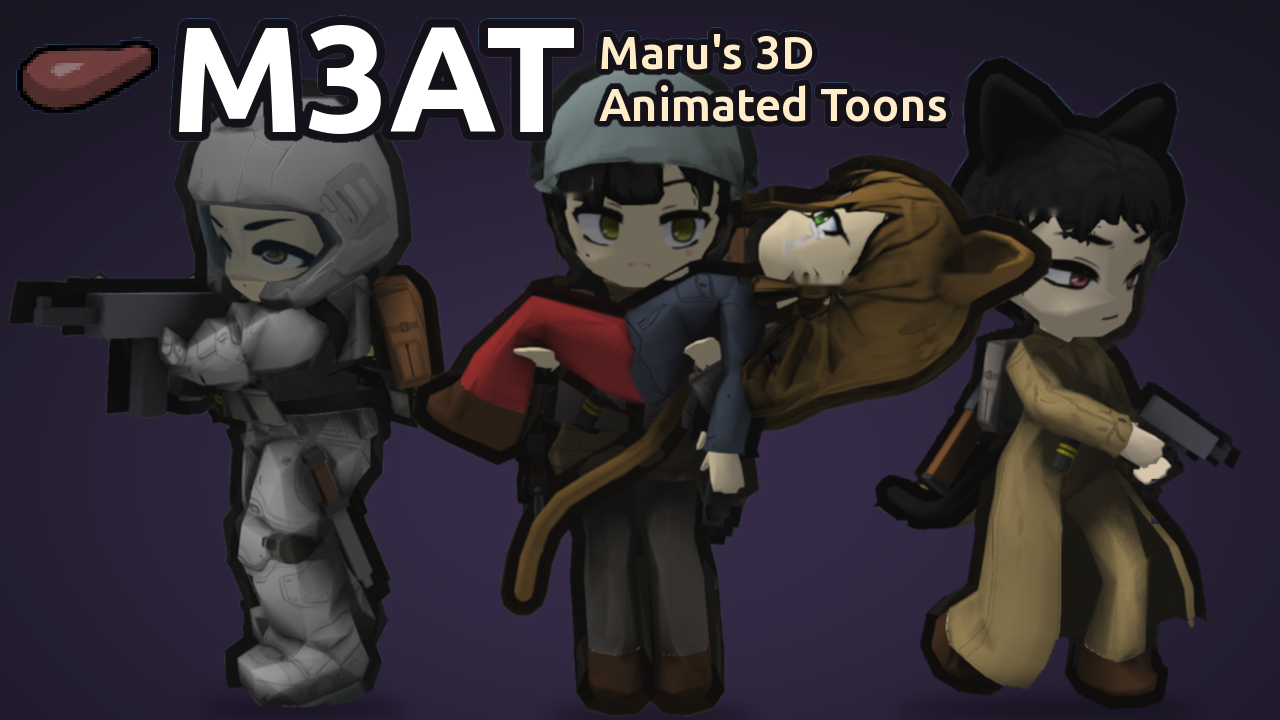
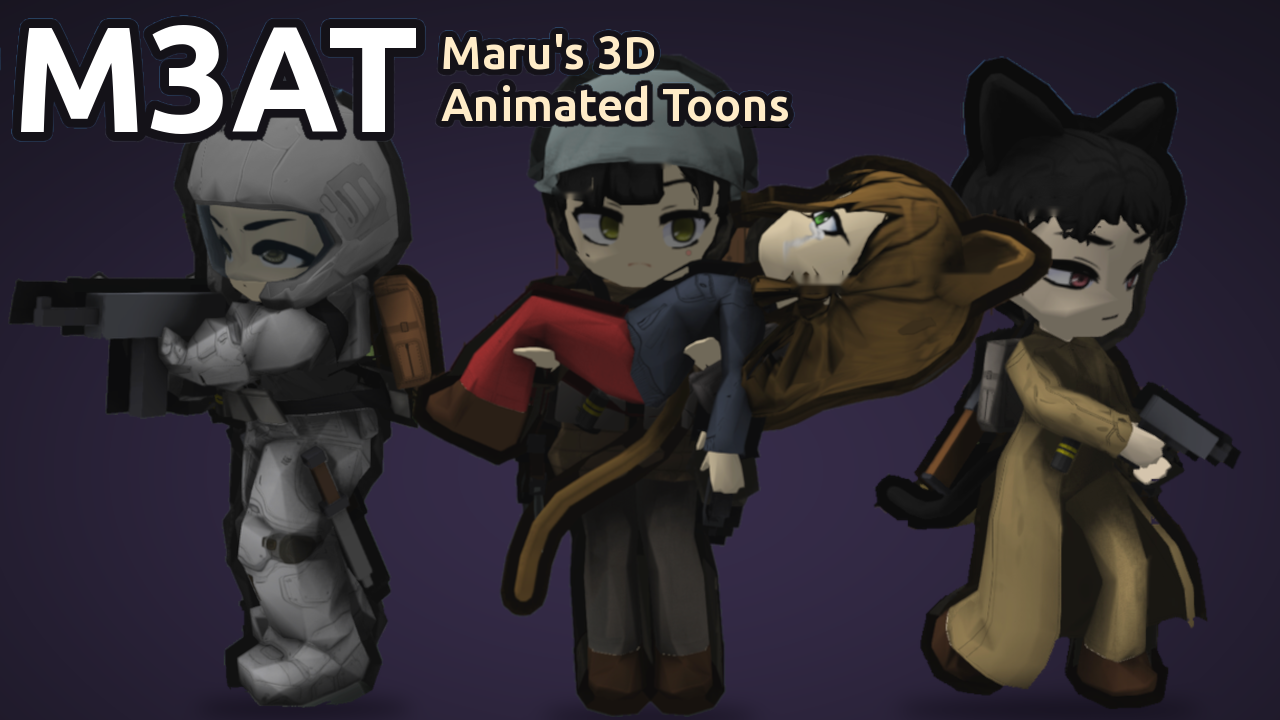
Eating at a table: drawn scooted forward on the chair so the hands reach the meal
Sat in the middle of the chair's cell, eat_sit's hands worked about 0.3 cells short
of the meal at the table's near edge (autotest eat). Drawn EatCloser (0.2 cells)
toward the table while it eats. Also the new Workshop preview picture.

Changed region(s): [[0.0, 0.0306, 0.75, 0.2139]]

diff --git a/Source/WalkFigures.cs b/Source/WalkFigures.cs
@@ -180,6 +180,7 @@ namespace M3AT
         private const float MealTurn = 90f;   // degrees about the vertical a meal being eaten is turned
         private const float MealTableTurn = 0f;   // .. and one on a table: its long side across the eater, not toward it
         private const float MealFromEdge = 0.15f;   // cells in from the table's edge on the eater's side to a meal's middle there
+        private const float EatCloser = 0.2f;   // cells a pawn sat eating at a table is drawn toward it, so its hands reach the meal (eat_sit)
         private const float PalmLift = 0.022f;   // model units from the hand's bone up to its palm's face (walk.HAND_HALF), where a meal eaten standing sits
         private const float CarriedItemScale = 0.8f;   // as IsoRim draws a carried item: its share of the game's size
         private const float EatEase = 3f;   // how fast a pawn takes up eating (or leaves it), per real second
@@ -494,6 +495,7 @@ namespace M3AT
             public int speakingFrame = -1;   // the frame speaking was set on (Time.frameCount); other frames count as none
             public float toss;   // 0 .. 1: how far into pitching horseshoes or hoopstone it is (Tossing)
             public string tossClip;   // toss, or snowball for Romance on the Rim's snowball fight (kept while it eases out)
+            public Vector3 eatWay;   // the way to the table a pawn sat eats at (EatCloser), flat, unit; kept as it eases out
             public Vector3 kissWay;
             public float share;   // 0 .. 1: how far a reader and its watcher have drawn together (SharePartnerOf), eased
             public Vector3 shareWay;   // the way and distance to the other, flat, cells
@@ -7944,6 +7946,19 @@ namespace M3AT
                 {
                     // Feeding a patient in a bed stood at it: stepped up to the bed, so the meal held out reaches them.
                     at += Quaternion.Euler(0f, ease.workFace, 0f) * Vector3.forward * (FeedCloser * ease.shownWork);
+                }
+                else if (seated && ease.eatClip != null && ease.eatClip.StartsWith("eat_sit") && ease.eat > 0f)
+                {
+                    // Sat eating at a table: the game keeps it in the middle of the chair's cell, where the hands fall short of
+                    // the meal at the table's near edge, so it is drawn scooted forward on the seat toward the table.
+                    Job job = pawn.CurJob;
+                    IntVec3 table = job != null && job.def == JobDefOf.Ingest ? job.GetTarget(TargetIndex.B).Cell : IntVec3.Invalid;
+                    if (table.IsValid && table.AdjacentToCardinal(pawn.Position))
+                    {
+                        IntVec3 to = table - pawn.Position;
+                        ease.eatWay = new Vector3(to.x, 0f, to.z);
+                    }
+                    at += ease.eatWay * (EatCloser * Mathf.SmoothStep(0f, 1f, ease.eat));
                 }
                 else if (ease.eatClip == "kiss" && ease.eat > 0f)
                 {

diff --git a/CLAUDE.md b/CLAUDE.md
@@ -150,7 +150,7 @@ Conventions that must stay consistent across the exporter and the C#:
 - Shields (skinned figure only, `Source/Shields.cs`): a garment with the `held` line (`SkinnedFigure.IsHeld`: CE's melee and ballistic shields) is in the left fist while CE would draw the shield (`ShieldShows`: drafted, or a job or duty with `alwaysShowWeapon`). With a `held_at` line (`CarriedOnBack`) it is carried on the back the rest of the time, as placed in its .glb: whole on the pack slot's bone, like a backpack (`Shield`, `ShieldPlace`, `PlaceWhole`, posed on the CPU, its visor with it, `ShieldVisor`), pushed out past everything else there (`ShieldPush`: `Clearance` with its own key, `ShieldKey`, the backpack and equipment pack, `PackOuter`, and the weapons holstered on the back under it, `ShieldOverWeapons`, every weapon the pawn has counted, its slots given by a `DrawHolstered` pass that draws nothing, each `GearGap` clear); `WalkFigures.DrawDressed` tells the figure which after `Wearing` (`SkinnedFigure.Shielding`, a change bumping `posedAt`). Taken between the two by `shield_draw_<garment>` (`walk.shield_draw_at`, one clip per shield: the left hand round the left side to the shield's left edge, `walk.shield_rim`, by `SHIELD_GRAB`, then into the guard; `SHIELD_DRAW_SECONDS`, `SHIELD_DRAW_UPPER`), played by game time by `StepShield` (`Ease.shieldOut`, backwards to put it back; on its feet, not carrying, swimming or in the air, else at once) and laid on with `Top` (`LayShieldDraw`); the guard waits until it is done. `ShieldPlace` keeps the shield on the back until the grab, then takes it onto the hand as the clip holds it there (the garment's `held_grip` line, `walk.shield_grip_rest`) over `SHIELD_SLIDE` and turns it in the hand to `held_at` over the rest, each blend about the shield's middle (`ShieldMiddle`); `anim.txt`'s `shield_timing` line, the garment's `held_rim` (the edge, for the preview's `Shield: taking <garment> off the back` items, `shield_taken`). In the fist it is its `held_at` on `hand.L`, moved with the hand for the shape. Without the line it is worn only while shown, riding `hand.L` (`WornGarments`). `holster_push.py` has the same placing (`shielded`, `shield_push`, `shield_over`), and the preview's Worn panel shows it on the back, or in the fist on the clips in `SHIELD_HELD`. It hides nothing (no `hide` lines; `OverOf` and the fur leave it out) and is in no clearance (`SkinnedFigure.HeldMask`, taken out of `Clearance`, `SideSurface` and `NeckFit` beside `PackMask`, as at rest it hangs by the hip); left to IsoRim on the ground (`GroundGarmentOf`). While it is shown on its feet, not carrying, swimming or in the air (`ShieldUp`), the `shield` guard is laid on with `Top` (eased by `ShieldEase`) over the drafted stance, aim and blows, giving way to the hip gear's clips, a reload, a draw, a cast, a stagger and a daze; the hip gear then stays in its slot (`hipCan`). A two-handed weapon loses its support hand to it (CE lets a pawn wear one with a shield, but not shoot). A one-handed weapon (`TypeOf` a handgun, `melee_1h` or grenade) or bare hands take a shield stance in place of the drafted one while it is up (`WalkFigures.ShieldClip`, from `DraftedClip`): `drafted_shield_<defName>`, else `drafted_shield_<kind>`. These are `DRAFTED` entries `shield_pistol`, `shield_melee` and `shield_unarmed` (`'shield': True`: the left arm posed in the guard by `stand_at`, and taken in the `over` line), edited in the preview like any drafted stance; each one-handed weapon held otherwise than its kind (`walk.shielded_names`) gets its own, worked out by `walk.shielded_entry` (the right hand and weapon moved together as the weapon's own drafted hand and turn stand to its kind's, so it keeps its grip; the elbow and body the shield stance's), seen in the preview by its `Shield weapon` menu (no handles then).
 - Reading (skinned figure only): `ReadOf` while the Reading job's book is open (`Book.IsOpen`, its reading toil; the driver a `JobDriver_Reading`) in the hands and the pawn is still: `read`, taken through eating's ease (`Ease.eat`, `eatClip` "read"), so laid with `Over` over the sit or the idle in place of the carry arms, the weapon put away. `DrawLoad` draws the book with `DrawBook`: IsoRim's `Models/open_book.obj` (`open_map`, `open_schematic` for the Map and Schematic) by the `tool read` line on the left hand, sized with the pawn, in `Api.SpriteColour`; else as IsoRim carries it. `./autotest.sh read` reads standing and at a chair.
 - Taking drugs (skinned figure only): `EatOf` gives a drug its own clip by how it is taken (`DrugClipOf`, by its ingestible's `ingestSound`, else its ingest command's verb, cached per ThingDef): `smoke` for `Ingest_Smoke` (smokeleaf, flake) and `pill` for `Ingest_Pill` and `Ingest_Snort` (pills, yayo), through eating's slot (`Ease.eat`, `eatClip`), so laid with `Over` over the sit or the idle. `smoke` (`walk.smoke_at`, procedural, `SMOKE_SECONDS`, keyed at `SMOKE_AT` by `SMOKE_KEYS` and joined round the loop: the joint held up by the chest, to the lips for a drag, `SMOKE_MOUTH`, lowered as the head tips back to blow, the ash flicked; the right arm only, its `over` line `R`) runs on the clock, and `DrawLoad` draws this mod's `Models/tool_joint.obj` (`anim_scripts/make_joint.py`, `python3 anim_scripts/make_joint.py "<mod>/Models"`) on the right hand by the `tool smoke tool_joint R` line (`walk.smoke_rest`: across the fingers, `SMOKE_JOINT`, its filter end `SMOKE_OUT` out on the palm's side, tipped `SMOKE_TIP` toward the fingertips; `DrawJoint`) in place of the drug's picture. `pill` (`walk.pill_at`, keyed at `PILL_AT` by `PILL_KEYS`, `PILL_FRAMES`: the drug on the left palm at `EAT_MEAL`, the right fingers pinching from it to the mouth, `PILL_MOUTH`, the head tipped back to swallow; both arms) is played once through over the Ingest job's chew (`Chewing`: the toil `ChewIngestible`; `PillOf`, `Ease.pillAt`, by `ticksLeftThisToil` against the most seen, as reload is timed), only during it, and what it takes is drawn on the left palm as eating standing does (`eatenInHand`). Points on the hand are placed by `walk.hand_point_to` (the filter end, `pill_pinch`). Drunk and injected drugs keep the eating clips. Checked by the autotest's `drugs` scenario. Rolling joints (a `DoBill` whose recipe makes a smoked product named a joint, `RollsJoint`: vanilla's at the drug lab or a crafting spot), `DrawRolledJoint` lays `Models/tool_joint_unlit.obj` (`make_joint.py`'s, no ember, its end twisted shut) across in front of the wrists' middle (`RolledJointAhead`), seated only (stood or knelt, the game's picture of the leaves lies on the spot): on the bench's top sat at the drug lab (`bench_sit`, by `Api.SurfaceHeight`), in the hands sat at a crafting spot (`chair`, `RolledJointLap`), while the recipe's work runs (`JobDriver_DoBill.workLeft`). `./autotest.sh rolljoint` checks it, and that none is drawn stood or knelt.
-- Eating (skinned figure only): `EatOf` while the Ingest job holds its food (`carryTracker`) and the pawn is still: `eat_sit` when the game sets it on a table beside the pawn (target B, as `JobDriver_Ingest.ModifyCarriedThingDrawPos` decides), else `eat_stand`, either laid with `Over` over the sit or the idle (eased by `EatEase`) in place of the carry arms; a drug (`IsDrug`: beer, tea; a smoked one, a pill or a powder has its own, above) takes the plain drink clip, never the knife-and-fork variant. Eating standing, `DrawLoad` draws the meal in the left palm, with a Harmony prefix (`HeldPrefix`) keeping `ModifyCarriedThingDrawPos` from moving it to the game's own standing hold meanwhile.
+- Eating (skinned figure only): `EatOf` while the Ingest job holds its food (`carryTracker`) and the pawn is still: `eat_sit` when the game sets it on a table beside the pawn (target B, as `JobDriver_Ingest.ModifyCarriedThingDrawPos` decides), else `eat_stand`, either laid with `Over` over the sit or the idle (eased by `EatEase`) in place of the carry arms, sat at a table drawn `EatCloser` (0.2 cells) toward it (`Ease.eatWay`), as from the chair's middle the hands fell short of the meal at the table's edge; a drug (`IsDrug`: beer, tea; a smoked one, a pill or a powder has its own, above) takes the plain drink clip, never the knife-and-fork variant. Eating standing, `DrawLoad` draws the meal in the left palm, with a Harmony prefix (`HeldPrefix`) keeping `ModifyCarriedThingDrawPos` from moving it to the game's own standing hold meanwhile.
 - Missing limbs (skinned figure only): `CutLimbs` (after `Begin`, every frame, from the game's cached `GetMissingPartsCommonAncestors`, outside parts only, the side by `SideOf`) calls `SkinnedFigure.Cut` on the bone a missing part starts at: `Neck` and `Head` both `spine.005` (and `DrawDressed` leaves the hair and face layers off without `HasHead`), `Shoulder`/`Arm` `upper_arm`, `Hand` `hand`, `Leg` `thigh`, `Foot` `foot`, a thumb `thumb`, all four other fingers `hand.<side>.001`, all five toes `toe`. `End` squashes a cut bone and every bone below it to the joint it was cut at in `p.bones` (what the body, garments, face and outline are skinned by), so the limb closes to a stump; `p.whole` keeps them uncut for `BoneOf`/`JointOf` (weapons, tools, carried people). A prosthetic replaces the missing part in the game, so that limb is drawn whole.
 - Prosthetics (skinned figure only, `Source/Prosthetics.cs`, the `prosthetics` mod option, on by default, `WalkFigures.Prosthetics`; `archotechProsthetics`, on by default, `WalkFigures.ArchotechShows`, off draws archotech limbs as flesh, as the game's text describes them, wounds and all): a limb with a `Hediff_AddedPart` on its arm (the game's `Shoulder` or `Arm`), hand, leg or foot is drawn as that part, with nothing modelled or exported. `LimbsOf` (from `CutLimbs`, every draw) makes one number of them, four bits for each of `SkinnedFigure.LimbBones`' eight slots: the look (`LookOf`, cached per HediffDef: Wood, Simple, Bionic or Archotech by the def's name, else the tech level of its `spawnThingOnRemoved`, else its `partEfficiency`, so other mods' parts get one) and `LimbPeg` for a name with `Peg`. `SkinnedFigure.Fit` gives it to the pose (`Posed.limbs`); `DrawBody` passes `PaintOf` (cached per mix) to `DrawMeshes` as `paint`: the body vertices with `LimbShare` of their weight on the slot's bones in the look's `LimbPlate` colour, those within `JointBand` along the limb of one of its joints in `LimbJoint` (only a little darker, as a vertex's colour runs out over its triangles and a strong one read as a smudge), the outline too. Bones are thinned at rest about their own line before their matrix in `Place` (`Posed.thin`, `thinBy`, `thinAll`, `Thinned`): a peg's shin with all below it to `PegThin`, so the peg reaches the ground where the sole did; a simple prosthetic's shin (`LegPylon`) or forearm (`ArmPylon`) alone, a pylon between a socket on the stump and a hand or foot shell (`SimpleShell`, grey, as beige read as skin; the pylon `SimplePylon`; the chibi's shin bone carries the heel, so a leg's shell is told by height, `ShellAboveAnkle`). Clothes over a peg or pylon hang at their own width: they are skinned by `Posed.dress` (the bones cut but not thinned, `dressRows`, on the graphics card `BlockOf(p, dressed)`'s own block; `PieceMeshes.dressed`, every piece but the body; `Posed.pylons`, a change of it posing them again), the body under them hidden as ever. No shoe is worn on a prosthetic leg or foot (`Posed.bare`, set by `Fit`, a bit per side): the `withLegwear` garment's triangles riding that leg are left out (`Unshod`, after `Tucked`, cached per list and feet; `OnBareLeg`) and the body triangles it hid there drawn again (`HiddenBy`'s `bare`, `BodyTris`/`OutlineTris` keyed by it too). A bionic or archotech limb gets decals laid on as wounds are (`Wounds.LimbDecals`, `WalkFigures.DecalLimbs`/`DecalSign`, seeded by the added part's load ID, `DecalSpan`, under the clothes): bionic, plate seams across each segment and, on the forearm and shin, a cyan light strip and a lit joint plate; archotech (pale olive plates after the game's archotech art), two yellow circuit traces ending in pads and a lighter inset panel per segment. From `Models/prosthetic_decals.png` (`anim_scripts/make_prosthetic_decals.py`, our own plain shapes), a row of the wound sheet's cells each, that `Wounds.WithDecals` stacks under that sheet as it loads it (`Rows` then 14). No fur tufts on a prosthetic (`HideFur`, `OnLimbs`) and no wounds (`WalkFigures.OnProsthetic`, `AddedOn`, in `Wounds`' `SignOf` and `Collect`). A bionic or archotech eye (`WalkFigures.ProstheticEyes`, an added part on an `Eye`, with Facial Animation's face drawn) is drawn as an eye wound is (`Wounds.ProstheticEyes`, `FaceLayers.DrawEyeWounds`, mode 7, `EyeWound.fitIris`): the decal sheet's third row (dark steel with a glowing cyan ring; pale olive with a yellow ring), laid on Facial Animation's own iris for that eye under the lids: `Source/FaceGaze.cs` measures the iris layer's texture on that eye's half (`IrisOf`: the alpha-weighted middle and a disc's radius from its spread, by `Api.ReadSpritePixels`; the retexture draws both irises in one texture and each eye's `L_Basic`/`R_Basic` layer takes its half by its mask, `HalfOf`), lays the art's iris (`IRIS`, `IrisArtShare`) at that size and place, cuts it to the iris's alpha and moves it with that layer's gaze shift, so it has the iris's shape, blinks and looks about with it; the art fills its whole cell past `IRIS` in a dark outline colour. Without a measured iris, at `EyeArtSpan` where the frame puts it, cut to the iris. The `prostheticEyes` mod option (on by default, `WalkFigures.ProstheticEyesShow`) turns them off, leaving the pawn's own eyes. Ears, jaws and implants are not drawn. `./autotest.sh prosthetics` shows each look on a bare pawn (the eyes close up with the head shaved), and archotech with its option off.
 - Wounds (skinned figure only): `HurtOf` adds up each place's fresh injuries (not scars; tended ones `HurtTended`; a freshly missing part its whole health) over each part's health (at least `HurtHealth`), the place found up the body from the part (`HurtPlaceOf`: an arm by its manipulation tags, `Head`, `Neck`, the chest by `Ribcage`/`Sternum`/`Clavicle`/heart/lungs, else the belly; legs left to the limp; the side from the first left or right label). It is looked at with the legs, every `LimpCheck` ticks, and the worst place's clip is laid on with `Over`: the arms all the way once it is past `HurtFrom` (eased by `HoldEase`; a hand half way to a wound looks wrong), the hunch from `HurtFrom` to `HurtFull`, standing, moving or seated, but not while drafted, carrying or bending.
